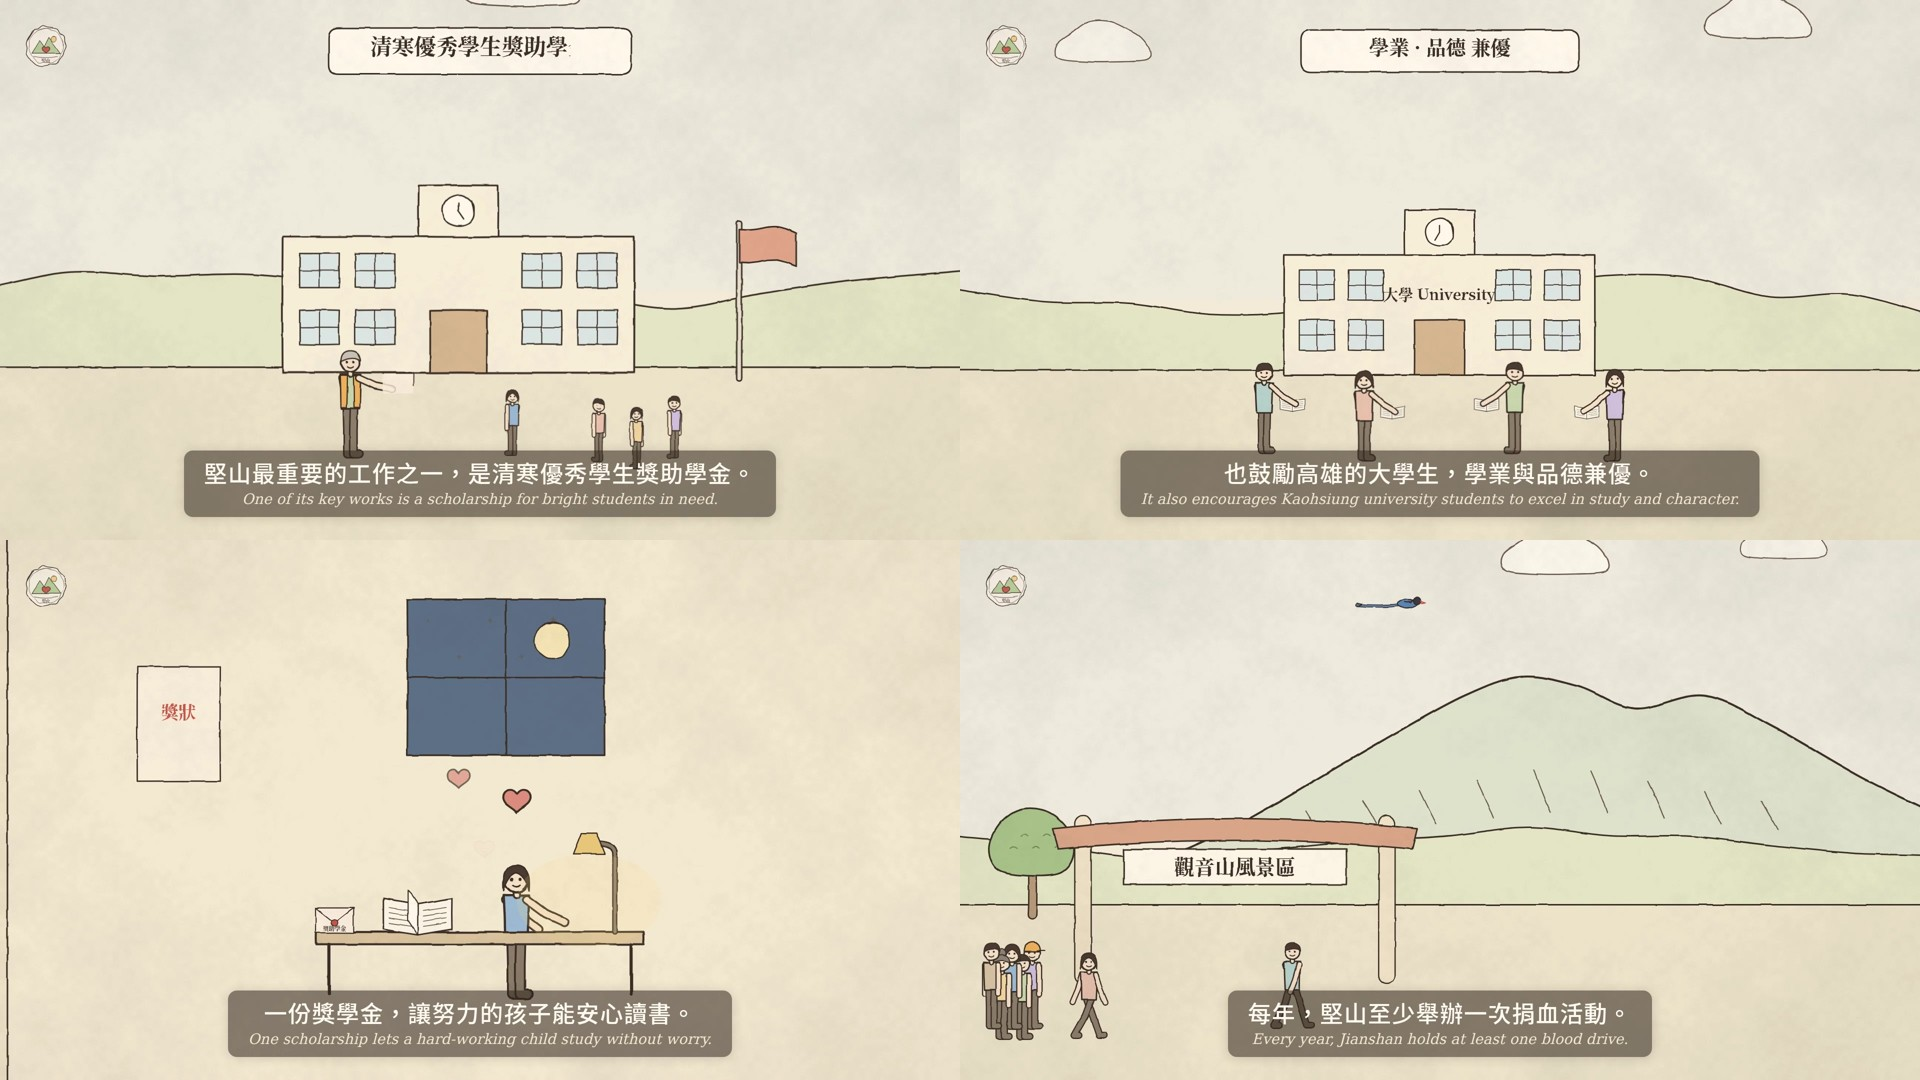
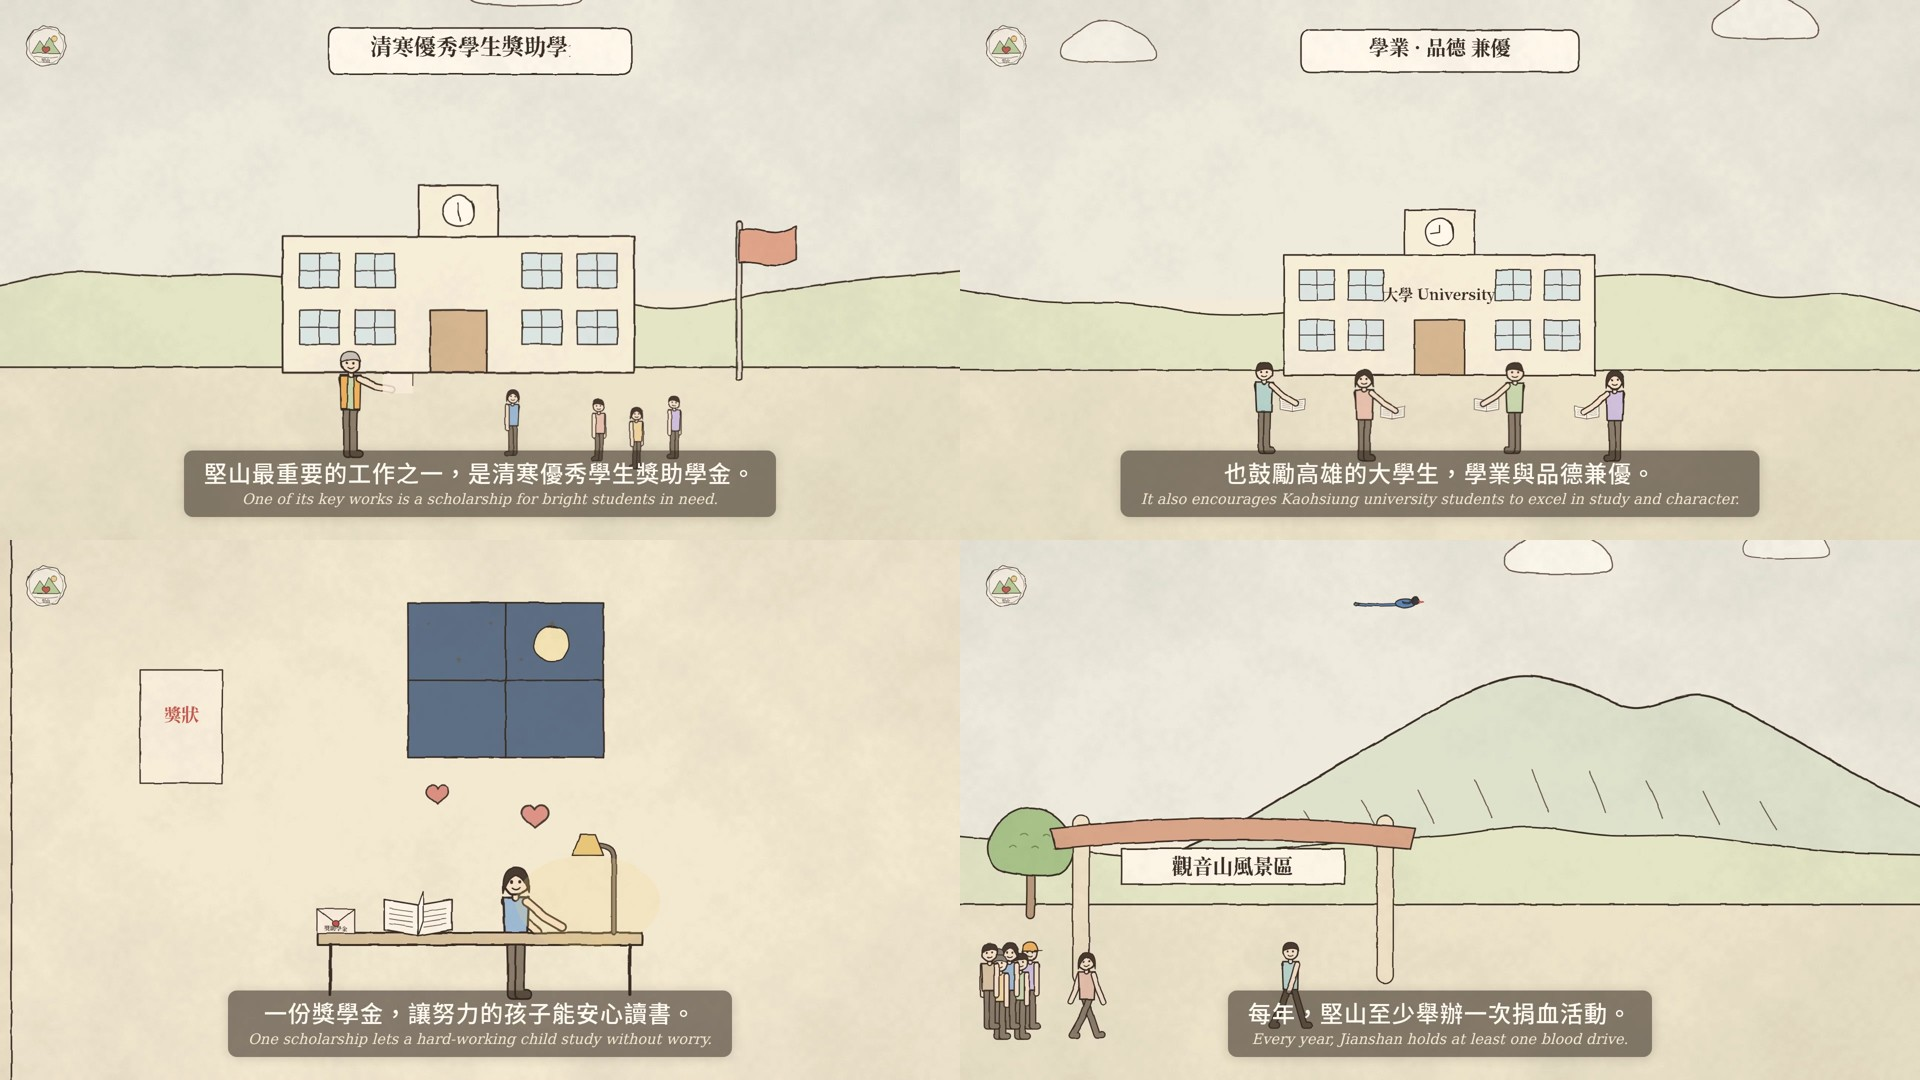
Fix name tag under subtitles and overlong badge labels; add patch re-render and splice
Claude-Session: https://claude.ai/code/session_014UjtcB6HzaWPFyuYkAc3Rp

diff --git a/kianshan/engine/scenes.js b/kianshan/engine/scenes.js
@@ -104,7 +104,7 @@ SCENES.s03_founding = (L, D) => {
   s += hearts(960, 640, arrive + 1.4, 6, 700);
   s += signpost(170, 1040, 0.95, prog(L[1].s, 1.2), '仁林路');
   s += txt(170, 1070, 'Renlin Rd., Renwu', prog(L[1].s + 0.8, 1), { size: 18, italic: true, latin: true, font: "'Noto Serif', serif", weight: 400, width: 170 });
-  let h = agencyBadge(1560, 110, 0.85, prog(L[1].s + 0.8, 1.6), 'social', '高雄市政府社會局', 'Social Affairs Bureau, Kaohsiung City Government');
+  let h = agencyBadge(1560, 110, 0.85, prog(L[1].s + 0.8, 1.6), 'social', '高雄市政府社會局', 'Social Affairs Bureau, Kaohsiung City');
   h += stamp(1770, 215, 0.62, prog(L[1].s + 2.4, 0.5), '輔導');
   return { svg: s, hud: h, cam: camPath([[0, 960, 540, 1.0], [L[0].s + 3, 960, 580, 1.06], [D, 980, 560, 1.1]]) };
 };
@@ -239,9 +239,9 @@ SCENES.s06_blood = (L, D) => {
   for (let i = 0; i < 6; i++) h += bloodBag(680 + i * 112, 330, 0.85, eout(prog(L[3].s + 0.3 + i * 0.25, 0.5)), clamp(cnt / 372 * 6 - i));
   // Chairman Li speaks
   s += person(1500, 1100, 1.3, eout(prog(L[4].s - 0.4, 0.8)), { shirt: '#d7c3a6', hair: 'short', vest: true, glasses: true, face: 1, arms: [0.2, -0.8 - 0.3 * Math.sin(t * 2.4)] });
-  s += nameTag(1500, 1170, prog(L[4].s + 0.2, 0.7), '李國忠 理事長', 'Chairman Li Kuo-chung');
+  s += nameTag(1330, 860, prog(L[4].s + 0.2, 0.7), '李國忠 理事長', 'Chairman Li Kuo-chung');
   s += speech(1700, 800, 1.1, prog(L[4].s + 0.6, 0.6), heart(0, -64, 1.3, 1) + heart(-38, -72, 0.8, 1, C.pink) + heart(38, -72, 0.8, 1, C.pink));
-  h += agencyBadge(1580, 110, 0.8, prog(L[2].s + 1.2, 1.6), 'blood', '台灣血液基金會 高雄捐血中心', 'Kaohsiung Blood Center, Taiwan Blood Services Foundation');
+  h += agencyBadge(1580, 110, 0.8, prog(L[2].s + 1.2, 1.6), 'blood', '台灣血液基金會 高雄捐血中心', 'Taiwan Blood Services Foundation, Kaohsiung');
   const cam = camPath([[0, 900, 540, 1.0], [L[1].s, 1000, 560, 1.02], [L[2].s - 0.5, 1250, 560, 1.02], [L[2].s + 1.4, 1750, 590, 1.08], [L[3].s - 0.4, 1450, 560, 1.0], [L[4].s - 0.4, 1520, 600, 1.05], [D, 1560, 680, 1.16]]);
   return { svg: s, hud: h, cam };
 };
@@ -267,7 +267,7 @@ SCENES.s07_rain = (L, D) => {
   s += walker(va + 0.4, vb - va - 0.4, -260, 1340, 1020, 1.08, { shirt: '#e8c2b0', hair: 'long', vest: true, arms: [0.2, 0.9], hold: `<g transform="translate(-44 -24)">${umbrella('#6f95b8')}</g>` + riceBag(62, -70, 0.8, 1) });
   s += person(1640, 1000, 1.05, eout(prog(L[1].s + 2.2, 0.8)), { shirt: '#d9cfc2', hair: 'gray', face: -1, arms: t > L[1].s + 2.8 ? [-0.4, -1.6] : undefined });
   s += hearts(1540, 780, L[1].s + 3, 5, 220);
-  const h = agencyBadge(1560, 110, 0.8, prog(L[0].s + 0.8, 1.6), 'volunteer', '高雄市志願服務資源中心', 'Registered volunteer team · Kaohsiung Volunteer Center');
+  const h = agencyBadge(1560, 110, 0.8, prog(L[0].s + 0.8, 1.6), 'volunteer', '高雄市志願服務資源中心', 'Kaohsiung Volunteer Service Center');
   const cam = camPath([[0, 900, 540, 1.0], [L[1].s, 1100, 560, 1.06], [D, 1400, 620, 1.14]]);
   return { svg: s, hud: h, cam };
 };

diff --git a/kianshan/render/splice.py b/kianshan/render/splice.py
@@ -1,0 +1,42 @@
+"""Splice re-rendered frame ranges (render/patch_<a>_<b>.mp4) into the full video.
+
+Frame-accurate: the base is cut with trim filters on frame numbers and the
+result re-encoded once, so there are no keyframe seams.
+"""
+import glob
+import os
+import re
+import subprocess
+
+ROOT = os.path.dirname(os.path.dirname(os.path.abspath(__file__)))
+BASE = f"{ROOT}/render/video_noaudio.mp4"
+
+
+def main():
+    patches = sorted((int(m.group(1)), int(m.group(2)), p) for p in glob.glob(f"{ROOT}/render/patch_*_*.mp4")
+                     for m in [re.search(r"patch_(\d+)_(\d+)\.mp4$", p)])
+    if not patches:
+        print("no patches")
+        return
+    inputs = ["-i", BASE]
+    parts, fc, cur = [], [], 0
+    for k, (a, b, p) in enumerate(patches, 1):
+        inputs += ["-i", p]
+        fc.append(f"[0:v]trim=start_frame={cur}:end_frame={a},setpts=PTS-STARTPTS[b{k}]")
+        fc.append(f"[{k}:v]setpts=PTS-STARTPTS[p{k}]")
+        parts += [f"[b{k}]", f"[p{k}]"]
+        cur = b
+    fc.append(f"[0:v]trim=start_frame={cur},setpts=PTS-STARTPTS[tail]")
+    parts.append("[tail]")
+    fc.append("".join(parts) + f"concat=n={len(parts)}:v=1:a=0[out]")
+    tmp = f"{ROOT}/render/video_spliced.mp4"
+    subprocess.check_call(["ffmpeg", "-y", "-loglevel", "error", *inputs, "-filter_complex", ";".join(fc), "-map", "[out]",
+                           "-c:v", "libx264", "-preset", "medium", "-crf", "15", "-pix_fmt", "yuv420p", "-r", "30", tmp])
+    os.replace(tmp, BASE)
+    for _, _, p in patches:
+        os.remove(p)
+    print("spliced", [(a, b) for a, b, _ in patches])
+
+
+if __name__ == "__main__":
+    main()

diff --git a/kianshan/render/render.py b/kianshan/render/render.py
@@ -127,7 +127,21 @@ if __name__ == "__main__":
     if not os.path.exists(paper):
         make_paper(paper)
     mode = sys.argv[1]
-    if mode == "stills":
+    if mode == "range":   # re-render frames [a, b) into render/patch_<a>_<b>.mp4
+        tl = json.load(open(f"{ROOT}/render/timeline.json"))
+        a, b = int(sys.argv[2]), int(sys.argv[3])
+        n = int(sys.argv[4]) if len(sys.argv) > 4 else 4
+        edges = [a + round(i * (b - a) / n) for i in range(n + 1)]
+        os.makedirs(f"{ROOT}/render/chunks", exist_ok=True)
+
+        async def go():
+            logos = load_logos()
+            return await asyncio.gather(*[worker(100 + a // 10 + i, edges[i], edges[i + 1], tl, logos, print) for i in range(n)])
+        parts = asyncio.run(go())
+        lst = f"{ROOT}/render/chunks/patch_{a}.txt"
+        open(lst, "w").write("".join(f"file '{c}'\n" for c in parts))
+        subprocess.check_call(["ffmpeg", "-y", "-loglevel", "error", "-f", "concat", "-safe", "0", "-i", lst, "-c", "copy", f"{ROOT}/render/patch_{a}_{b}.mp4"])
+    elif mode == "stills":
         asyncio.run(stills([int(x) for x in sys.argv[2:]], f"{ROOT}/qa/stills"))
     else:
         asyncio.run(video(int(sys.argv[2]) if len(sys.argv) > 2 else 4))

diff --git a/kianshan/qa/report.md b/kianshan/qa/report.md
@@ -2,122 +2,34 @@
 
 - 檔案：`output/kianshan_intro.mp4`
 - 解析度／幀率：1920×1080 @ 30/1，編碼 h264 / aac 48000 Hz
-- 片長：245.23 秒（時間軸 245.23 秒），影格數：7357（時間軸 7357），逐格解碼 7357 格
-- 響度：I:         -15.1 LUFS / LRA:         8.8 LU / Peak:       -1.4 dBFS
-- 相鄰格差異中位數：0.74（線條每 3 格重新抖動，屬正常的手繪「沸騰」效果）
-- 異常影格：87 個
+- 片長：243.33 秒（時間軸 243.33 秒），影格數：7300（時間軸 7300），逐格解碼 7300 格
+- 響度：I:         -15.1 LUFS / LRA:        10.0 LU / Peak:       -1.4 dBFS
+- 相鄰格差異中位數：0.80（線條每 3 格重新抖動，屬正常的手繪「沸騰」效果）
+- 異常影格：0 個
 
-| 影格 | 時間 | 場景 | 問題 |
-|---|---|---|---|
-| 740 | 24.67s | s02_title +0.40s | almost no line art (0.09% ink) |
-| 741 | 24.70s | s02_title +0.43s | almost no line art (0.03% ink) |
-| 742 | 24.73s | s02_title +0.47s | almost no line art (0.08% ink) |
-| 743 | 24.77s | s02_title +0.50s | almost no line art (0.15% ink) |
-| 1116 | 37.20s | s03_founding +0.43s | almost no line art (0.02% ink) |
-| 1117 | 37.23s | s03_founding +0.47s | almost no line art (0.00% ink) |
-| 1118 | 37.27s | s03_founding +0.50s | almost no line art (0.03% ink) |
-| 1119 | 37.30s | s03_founding +0.53s | almost no line art (0.15% ink) |
-| 1120 | 37.33s | s03_founding +0.57s | almost no line art (0.19% ink) |
-| 2543 | 84.77s | s05_scholarship +0.40s | almost no line art (0.16% ink) |
-| 2544 | 84.80s | s05_scholarship +0.43s | almost no line art (0.11% ink) |
-| 2545 | 84.83s | s05_scholarship +0.47s | almost no line art (0.14% ink) |
-| 5441 | 181.37s | s08_recent +0.43s | almost no line art (0.10% ink) |
-| 5442 | 181.40s | s08_recent +0.47s | almost no line art (0.15% ink) |
-| 6040 | 201.33s | s09_ending +0.43s | almost no line art (0.08% ink) |
-| 6041 | 201.37s | s09_ending +0.47s | almost no line art (0.16% ink) |
-| 6949 | 231.63s | s10_endcard +0.40s | almost no line art (0.18% ink) |
-| 6950 | 231.67s | s10_endcard +0.43s | almost no line art (0.04% ink) |
-| 6951 | 231.70s | s10_endcard +0.47s | almost no line art (0.07% ink) |
-| 6952 | 231.73s | s10_endcard +0.50s | almost no line art (0.13% ink) |
-| 6953 | 231.77s | s10_endcard +0.53s | almost no line art (0.20% ink) |
-| 2061 | 68.70s | s04_chairs +11.40s | glitch spike (diff in 6.3, out 6.6, median 0.74) |
-| 2062 | 68.73s | s04_chairs +11.43s | glitch spike (diff in 6.6, out 7.1, median 0.74) |
-| 2063 | 68.77s | s04_chairs +11.47s | glitch spike (diff in 7.1, out 7.8, median 0.74) |
-| 2064 | 68.80s | s04_chairs +11.50s | glitch spike (diff in 7.8, out 8.1, median 0.74) |
-| 2065 | 68.83s | s04_chairs +11.53s | glitch spike (diff in 8.1, out 8.5, median 0.74) |
-| 2066 | 68.87s | s04_chairs +11.57s | glitch spike (diff in 8.5, out 8.9, median 0.74) |
-| 2067 | 68.90s | s04_chairs +11.60s | glitch spike (diff in 8.9, out 8.9, median 0.74) |
-| 2068 | 68.93s | s04_chairs +11.63s | glitch spike (diff in 8.9, out 9.0, median 0.74) |
-| 2069 | 68.97s | s04_chairs +11.67s | glitch spike (diff in 9.0, out 9.1, median 0.74) |
-| 2070 | 69.00s | s04_chairs +11.70s | glitch spike (diff in 9.1, out 8.9, median 0.74) |
-| 2071 | 69.03s | s04_chairs +11.73s | glitch spike (diff in 8.9, out 8.8, median 0.74) |
-| 2072 | 69.07s | s04_chairs +11.77s | glitch spike (diff in 8.8, out 8.6, median 0.74) |
-| 2073 | 69.10s | s04_chairs +11.80s | glitch spike (diff in 8.6, out 8.0, median 0.74) |
-| 2074 | 69.13s | s04_chairs +11.83s | glitch spike (diff in 8.0, out 7.8, median 0.74) |
-| 2075 | 69.17s | s04_chairs +11.87s | glitch spike (diff in 7.8, out 8.0, median 0.74) |
-| 2076 | 69.20s | s04_chairs +11.90s | glitch spike (diff in 8.0, out 7.7, median 0.74) |
-| 2077 | 69.23s | s04_chairs +11.93s | glitch spike (diff in 7.7, out 7.8, median 0.74) |
-| 2078 | 69.27s | s04_chairs +11.97s | glitch spike (diff in 7.8, out 7.7, median 0.74) |
-| 2079 | 69.30s | s04_chairs +12.00s | glitch spike (diff in 7.7, out 7.5, median 0.74) |
-| 2080 | 69.33s | s04_chairs +12.03s | glitch spike (diff in 7.5, out 7.3, median 0.74) |
-| 2081 | 69.37s | s04_chairs +12.07s | glitch spike (diff in 7.3, out 6.5, median 0.74) |
-| 2888 | 96.27s | s05_scholarship +11.90s | glitch spike (diff in 6.5, out 6.9, median 0.74) |
-| 2889 | 96.30s | s05_scholarship +11.93s | glitch spike (diff in 6.9, out 7.1, median 0.74) |
-| 2890 | 96.33s | s05_scholarship +11.97s | glitch spike (diff in 7.1, out 7.2, median 0.74) |
-| 2891 | 96.37s | s05_scholarship +12.00s | glitch spike (diff in 7.2, out 7.4, median 0.74) |
-| 2892 | 96.40s | s05_scholarship +12.03s | glitch spike (diff in 7.4, out 6.9, median 0.74) |
-| 2893 | 96.43s | s05_scholarship +12.07s | glitch spike (diff in 6.9, out 6.3, median 0.74) |
-| 2894 | 96.47s | s05_scholarship +12.10s | glitch spike (diff in 6.3, out 6.3, median 0.74) |
-| 3237 | 107.90s | s05_scholarship +23.53s | glitch spike (diff in 6.3, out 6.2, median 0.74) |
-| 3238 | 107.93s | s05_scholarship +23.57s | glitch spike (diff in 6.2, out 6.6, median 0.74) |
-| 3239 | 107.97s | s05_scholarship +23.60s | glitch spike (diff in 6.6, out 6.8, median 0.74) |
-| 3240 | 108.00s | s05_scholarship +23.63s | glitch spike (diff in 6.8, out 6.1, median 0.74) |
-| 4077 | 135.90s | s06_blood +17.20s | glitch spike (diff in 6.4, out 6.1, median 0.74) |
-| 4078 | 135.93s | s06_blood +17.23s | glitch spike (diff in 6.1, out 6.0, median 0.74) |
-| 4079 | 135.97s | s06_blood +17.27s | glitch spike (diff in 6.0, out 6.7, median 0.74) |
-| 4080 | 136.00s | s06_blood +17.30s | glitch spike (diff in 6.7, out 6.7, median 0.74) |
-| 4081 | 136.03s | s06_blood +17.33s | glitch spike (diff in 6.7, out 6.9, median 0.74) |
-| 4082 | 136.07s | s06_blood +17.37s | glitch spike (diff in 6.9, out 7.2, median 0.74) |
-| 4083 | 136.10s | s06_blood +17.40s | glitch spike (diff in 7.2, out 7.2, median 0.74) |
-| 4084 | 136.13s | s06_blood +17.43s | glitch spike (diff in 7.2, out 7.4, median 0.74) |
-| 4085 | 136.17s | s06_blood +17.47s | glitch spike (diff in 7.4, out 7.7, median 0.74) |
-| 4086 | 136.20s | s06_blood +17.50s | glitch spike (diff in 7.7, out 7.7, median 0.74) |
-| 4087 | 136.23s | s06_blood +17.53s | glitch spike (diff in 7.7, out 7.6, median 0.74) |
-| 4088 | 136.27s | s06_blood +17.57s | glitch spike (diff in 7.6, out 7.6, median 0.74) |
-| 4089 | 136.30s | s06_blood +17.60s | glitch spike (diff in 7.6, out 7.2, median 0.74) |
-| 4090 | 136.33s | s06_blood +17.63s | glitch spike (diff in 7.2, out 7.1, median 0.74) |
-| 4091 | 136.37s | s06_blood +17.67s | glitch spike (diff in 7.1, out 7.3, median 0.74) |
-| 4092 | 136.40s | s06_blood +17.70s | glitch spike (diff in 7.3, out 6.9, median 0.74) |
-| 4093 | 136.43s | s06_blood +17.73s | glitch spike (diff in 6.9, out 6.6, median 0.74) |
-| 4094 | 136.47s | s06_blood +17.77s | glitch spike (diff in 6.6, out 6.5, median 0.74) |
-| 5761 | 192.03s | s08_recent +11.10s | glitch spike (diff in 6.0, out 6.3, median 0.74) |
-| 5762 | 192.07s | s08_recent +11.13s | glitch spike (diff in 6.3, out 6.7, median 0.74) |
-| 5763 | 192.10s | s08_recent +11.17s | glitch spike (diff in 6.7, out 6.9, median 0.74) |
-| 5764 | 192.13s | s08_recent +11.20s | glitch spike (diff in 6.9, out 7.2, median 0.74) |
-| 5765 | 192.17s | s08_recent +11.23s | glitch spike (diff in 7.2, out 7.3, median 0.74) |
-| 5766 | 192.20s | s08_recent +11.27s | glitch spike (diff in 7.3, out 7.3, median 0.74) |
-| 5767 | 192.23s | s08_recent +11.30s | glitch spike (diff in 7.3, out 7.5, median 0.74) |
-| 5768 | 192.27s | s08_recent +11.33s | glitch spike (diff in 7.5, out 7.3, median 0.74) |
-| 5769 | 192.30s | s08_recent +11.37s | glitch spike (diff in 7.3, out 7.3, median 0.74) |
-| 5770 | 192.33s | s08_recent +11.40s | glitch spike (diff in 7.3, out 7.3, median 0.74) |
-| 5771 | 192.37s | s08_recent +11.43s | glitch spike (diff in 7.3, out 7.3, median 0.74) |
-| 5772 | 192.40s | s08_recent +11.47s | glitch spike (diff in 7.3, out 7.2, median 0.74) |
-| 5773 | 192.43s | s08_recent +11.50s | glitch spike (diff in 7.2, out 6.8, median 0.74) |
-| 5774 | 192.47s | s08_recent +11.53s | glitch spike (diff in 6.8, out 6.5, median 0.74) |
-| 5775 | 192.50s | s08_recent +11.57s | glitch spike (diff in 6.5, out 6.3, median 0.74) |
-| 5776 | 192.53s | s08_recent +11.60s | glitch spike (diff in 6.3, out 6.2, median 0.74) |
+所有影格都通過檢查：沒有黑畫面、空白畫面、破圖閃格，也沒有畫面凍結。
 
 ## 抽幀截圖
 
 - `qa/final_stills/00_s01_opening_007.00s.jpg`
-- `qa/final_stills/01_s01_opening_018.77s.jpg`
-- `qa/final_stills/02_s02_title_030.77s.jpg`
-- `qa/final_stills/03_s02_title_032.27s.jpg`
-- `qa/final_stills/04_s03_founding_042.27s.jpg`
-- `qa/final_stills/05_s03_founding_052.30s.jpg`
-- `qa/final_stills/06_s04_chairs_062.80s.jpg`
-- `qa/final_stills/07_s04_chairs_079.37s.jpg`
-- `qa/final_stills/08_s05_scholarship_089.87s.jpg`
-- `qa/final_stills/09_s05_scholarship_104.73s.jpg`
-- `qa/final_stills/10_s05_scholarship_113.70s.jpg`
-- `qa/final_stills/11_s06_blood_124.20s.jpg`
-- `qa/final_stills/12_s06_blood_137.27s.jpg`
-- `qa/final_stills/13_s06_blood_153.53s.jpg`
-- `qa/final_stills/14_s07_rain_165.03s.jpg`
-- `qa/final_stills/15_s07_rain_175.43s.jpg`
-- `qa/final_stills/16_s08_recent_186.43s.jpg`
-- `qa/final_stills/17_s08_recent_195.90s.jpg`
-- `qa/final_stills/18_s09_ending_206.90s.jpg`
-- `qa/final_stills/19_s09_ending_224.23s.jpg`
-- `qa/final_stills/20_s10_endcard_235.23s.jpg`
-- `qa/final_stills/21_s10_endcard_242.23s.jpg`
+- `qa/final_stills/01_s01_opening_019.00s.jpg`
+- `qa/final_stills/02_s02_title_031.00s.jpg`
+- `qa/final_stills/03_s02_title_032.57s.jpg`
+- `qa/final_stills/04_s03_founding_042.57s.jpg`
+- `qa/final_stills/05_s03_founding_053.23s.jpg`
+- `qa/final_stills/06_s04_chairs_063.73s.jpg`
+- `qa/final_stills/07_s04_chairs_080.17s.jpg`
+- `qa/final_stills/08_s05_scholarship_090.67s.jpg`
+- `qa/final_stills/09_s05_scholarship_106.53s.jpg`
+- `qa/final_stills/10_s05_scholarship_114.93s.jpg`
+- `qa/final_stills/11_s06_blood_125.43s.jpg`
+- `qa/final_stills/12_s06_blood_137.63s.jpg`
+- `qa/final_stills/13_s06_blood_152.17s.jpg`
+- `qa/final_stills/14_s07_rain_163.67s.jpg`
+- `qa/final_stills/15_s07_rain_175.10s.jpg`
+- `qa/final_stills/16_s08_recent_186.10s.jpg`
+- `qa/final_stills/17_s08_recent_195.17s.jpg`
+- `qa/final_stills/18_s09_ending_206.17s.jpg`
+- `qa/final_stills/19_s09_ending_222.33s.jpg`
+- `qa/final_stills/20_s10_endcard_233.33s.jpg`
+- `qa/final_stills/21_s10_endcard_240.33s.jpg`
